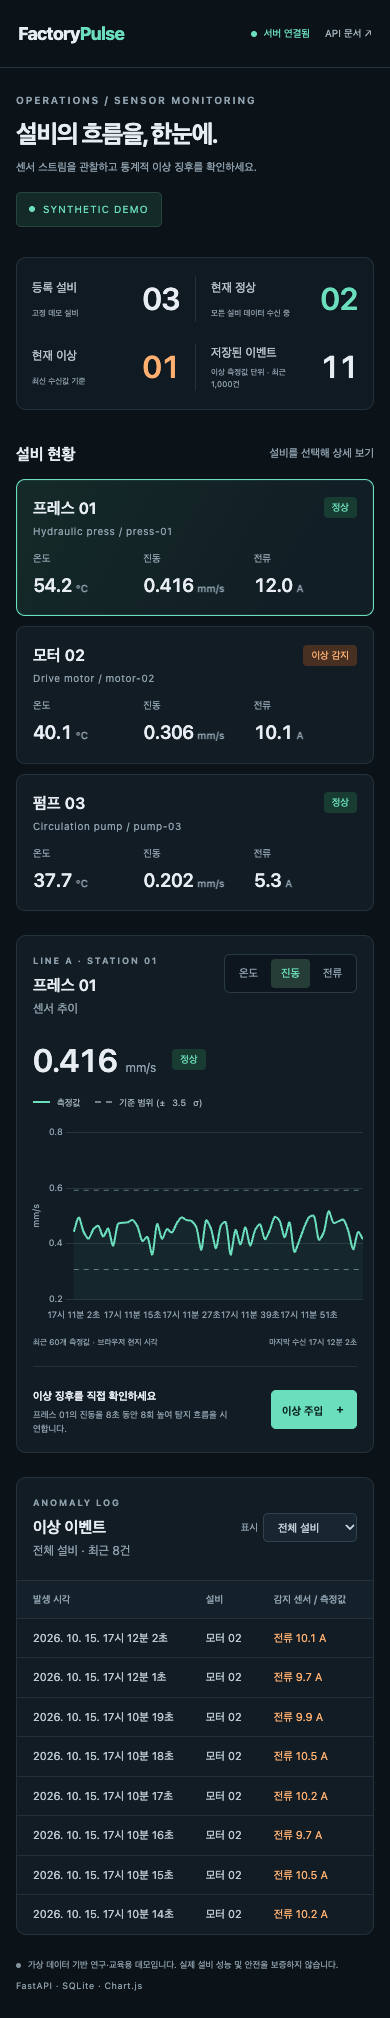
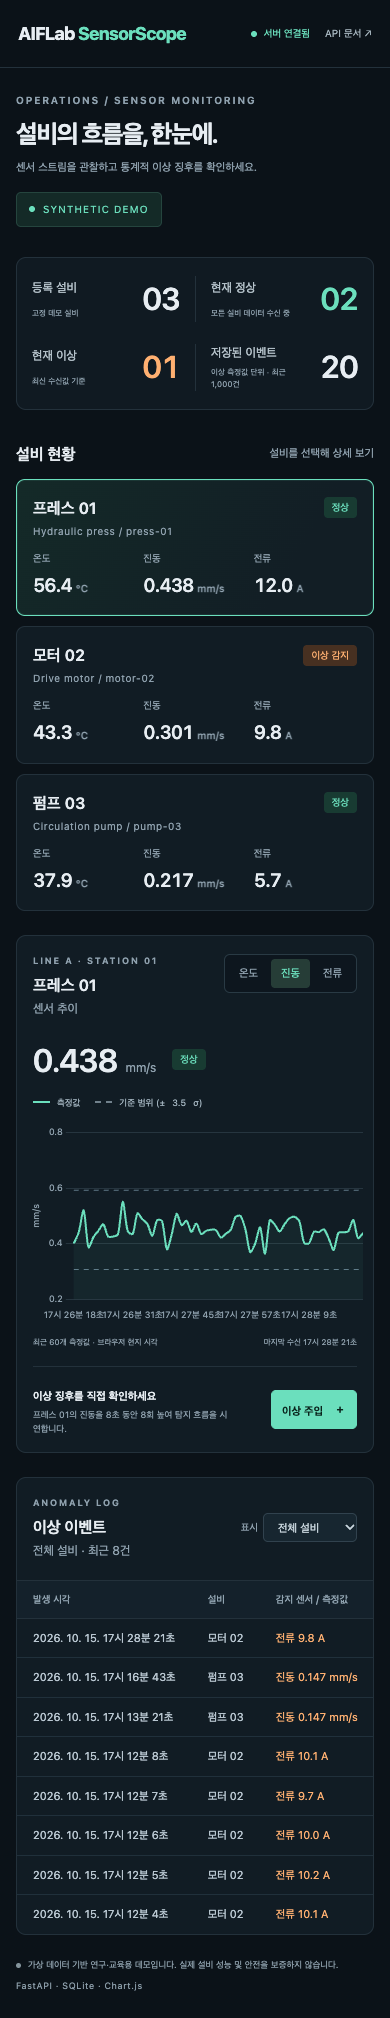
Rename project to AIFLab SensorScope

diff --git a/sensorscope/static/index.html b/sensorscope/static/index.html
@@ -4,7 +4,7 @@
     <meta charset="utf-8" />
     <meta name="viewport" content="width=device-width, initial-scale=1" />
     <meta name="theme-color" content="#0b1218" />
-    <title>FactoryPulse · 설비 모니터링</title>
+    <title>AIFLab SensorScope · 설비 모니터링</title>
     <link rel="icon" href="/static/favicon.svg" type="image/svg+xml" />
     <link rel="stylesheet" href="/static/style.css" />
     <script src="/static/vendor/chart.umd.min.js" defer></script>
@@ -12,7 +12,7 @@
   </head>
   <body>
     <aside class="rail" aria-label="브랜드">
-      <a class="brand-mark" href="/" aria-label="FactoryPulse 홈"
+      <a class="brand-mark" href="/" aria-label="AIFLab SensorScope 홈"
         ><svg viewBox="0 0 32 32" fill="none">
           <path
             d="M3 18h7l4-11 5 19 4-12 3 4h3"
@@ -33,12 +33,12 @@
           <rect x="3" y="14" width="7" height="7" rx="1" />
           <rect x="14" y="14" width="7" height="7" rx="1" /></svg
       ></span>
-      <span class="rail-foot">FP / 01</span>
+      <span class="rail-foot">SS / 01</span>
     </aside>
     <div class="workspace">
       <header class="topbar">
         <a href="/" class="wordmark"
-          >Factory<span>Pulse</span><span class="version">v0.1.0</span></a
+          >AIFLab <span>SensorScope</span><span class="version">v0.1.0</span></a
         >
         <div class="top-links">
           <span id="connection" class="connection"><i></i>연결 중</span

diff --git a/sensorscope/config.py b/sensorscope/config.py
@@ -37,7 +37,7 @@ MACHINES = {
 
 @dataclass(frozen=True)
 class Settings:
-    db_path: Path = Path("data/factorypulse.sqlite3")
+    db_path: Path = Path("data/sensorscope.sqlite3")
     simulator: bool = True
     interval: float = 1.0
     threshold: float = 3.5
@@ -47,21 +47,21 @@ class Settings:
 
     def __post_init__(self):
         if not math.isfinite(self.interval) or not 0.1 <= self.interval <= 60:
-            raise ValueError("FP_INTERVAL must be finite and between 0.1 and 60 seconds")
+            raise ValueError("SS_INTERVAL must be finite and between 0.1 and 60 seconds")
         if not math.isfinite(self.threshold) or not 1 <= self.threshold <= 10:
-            raise ValueError("FP_THRESHOLD must be finite and between 1 and 10")
+            raise ValueError("SS_THRESHOLD must be finite and between 1 and 10")
         if self.reading_limit < 1 or self.event_limit < 1:
             raise ValueError("Retention limits must be positive")
 
     @classmethod
     def from_env(cls):
-        mode = os.getenv("FP_SIMULATOR", "true").lower()
+        mode = os.getenv("SS_SIMULATOR", "true").lower()
         if mode not in {"true", "false"}:
-            raise ValueError("FP_SIMULATOR must be true or false")
+            raise ValueError("SS_SIMULATOR must be true or false")
         return cls(
-            db_path=Path(os.getenv("FP_DB_PATH", "data/factorypulse.sqlite3")),
+            db_path=Path(os.getenv("SS_DB_PATH", "data/sensorscope.sqlite3")),
             simulator=mode == "true",
-            interval=float(os.getenv("FP_INTERVAL", "1")),
-            threshold=float(os.getenv("FP_THRESHOLD", "3.5")),
-            seed=int(os.getenv("FP_SEED", "2026")),
+            interval=float(os.getenv("SS_INTERVAL", "1")),
+            threshold=float(os.getenv("SS_THRESHOLD", "3.5")),
+            seed=int(os.getenv("SS_SEED", "2026")),
         )

diff --git a/sensorscope/main.py b/sensorscope/main.py
@@ -65,7 +65,7 @@ def create_app(settings: Settings | None = None):
             app.state.store.close()
 
     app = FastAPI(
-        title="FactoryPulse",
+        title="AIFLab SensorScope",
         version=__version__,
         lifespan=lifespan,
         description="Synthetic industrial sensor monitoring demo. Not a safety or predictive-maintenance system.",
@@ -132,7 +132,7 @@ def create_app(settings: Settings | None = None):
     @app.post("/api/readings", status_code=201)
     async def add_reading(reading: Reading):
         if settings.simulator:
-            raise HTTPException(409, "Set FP_SIMULATOR=false before submitting external readings")
+            raise HTTPException(409, "Set SS_SIMULATOR=false before submitting external readings")
         return ingest(app, reading, "external")
 
     @app.post("/api/demo/anomaly", status_code=202)

diff --git a/tests/test_api.py b/tests/test_api.py
@@ -4,8 +4,8 @@ from datetime import UTC, datetime, timedelta
 import pytest
 from fastapi.testclient import TestClient
 
-from factorypulse.config import Settings
-from factorypulse.main import create_app
+from sensorscope.config import Settings
+from sensorscope.main import create_app
 
 
 @pytest.fixture
@@ -128,7 +128,7 @@ def test_query_validation(client, url):
 
 def test_dashboard_assets_and_health(client):
     assert client.get("/api/health").json()["status"] == "ok"
-    assert "FactoryPulse" in client.get("/").text
+    assert "AIFLab SensorScope" in client.get("/").text
     assert client.get("/static/vendor/chart.umd.min.js").status_code == 200
     assert client.get("/openapi.json").status_code == 200
     assert client.post("/api/demo/anomaly", json={"machine_id": "press-01"}).status_code == 409

diff --git a/tests/test_detector.py b/tests/test_detector.py
@@ -3,9 +3,9 @@ import math
 
 import pytest
 
-from factorypulse.config import MACHINES, METRICS, Settings
-from factorypulse.detector import Detector
-from factorypulse.simulator import Simulator
+from sensorscope.config import MACHINES, METRICS, Settings
+from sensorscope.detector import Detector
+from sensorscope.simulator import Simulator
 
 
 @pytest.mark.parametrize("machine_id", MACHINES)

diff --git a/scripts/replay_csv.py b/scripts/replay_csv.py
@@ -1,4 +1,4 @@
-"""Replay numeric CSV rows into an instance started with FP_SIMULATOR=false."""
+"""Replay numeric CSV rows into an instance started with SS_SIMULATOR=false."""
 
 import argparse
 import csv

diff --git a/sensorscope/__init__.py b/sensorscope/__init__.py
@@ -1,0 +1,3 @@
+"""AIFLab SensorScope: a small, reproducible sensor monitoring demonstration."""
+
+__version__ = "0.1.0"
